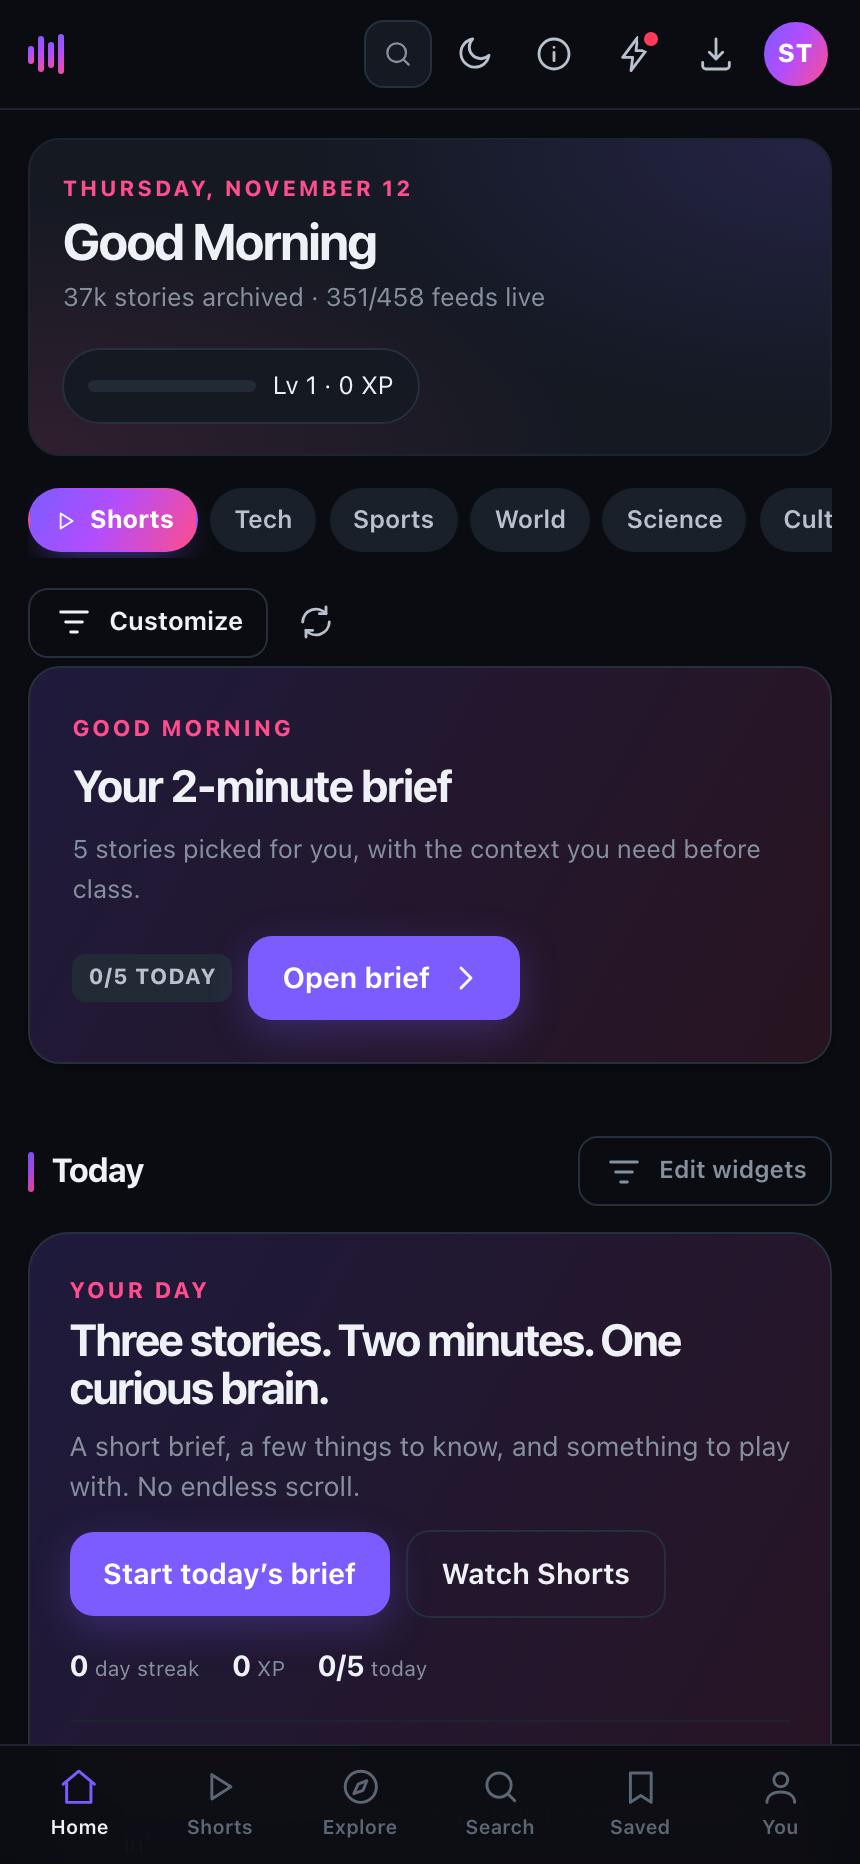
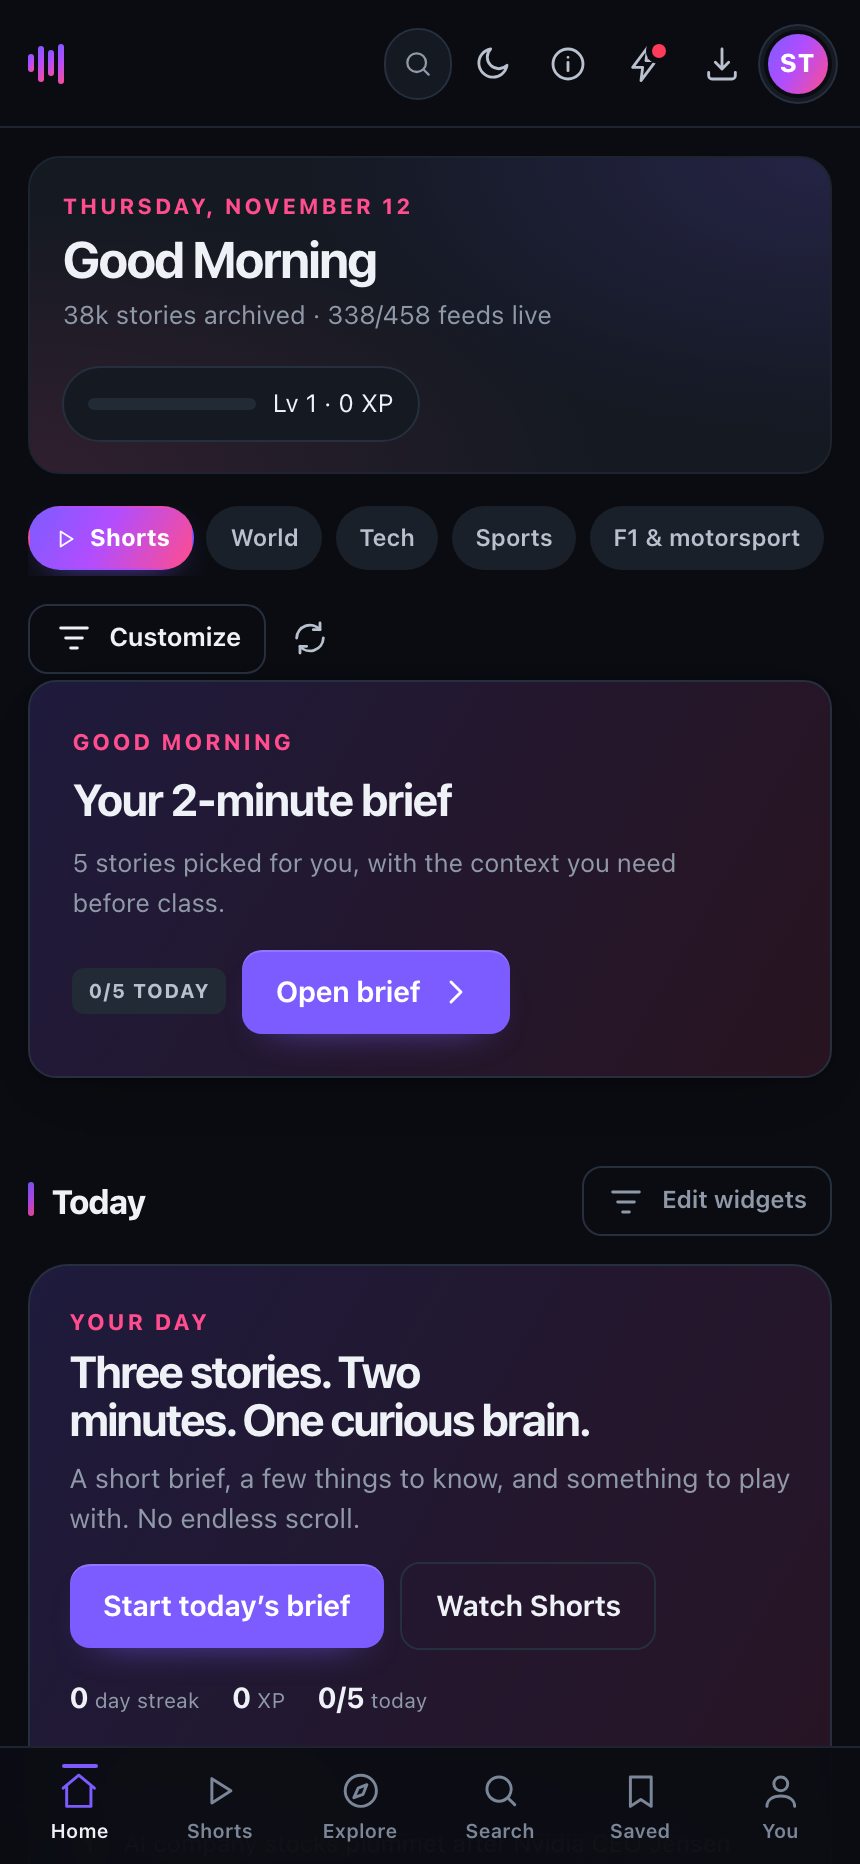
frontend: 30-point professional design pass
- fluid type, spacing, radius, shadow and ring tokens
- refined app bar with scroll elevation and active nav underline
- consistent 36px icon buttons, 34px avatar ring, 36px search
- 40px buttons with focus rings and inset primary highlight
- soft card elevation and hover lift only on interactive cards
- aligned section headers with a precise accent rule
- chip, badge, input, switch and segmented-control consistency
- slower skeleton shimmer, calmer empty states, glass toasts
- blurred modal backdrop, rounded corners and sticky table headers
- article measure, title/desk/prose rhythm and blockquote styling
- article toolbar sits below the app bar; refined gallery/lightbox
- safe-area mobile bottom nav with active indicator
- page-enter transition, app-bar scroll shadow and image fade-in
- custom scrollbars, selection color, focus-visible, reduced motion, print
- new default board (10 of 54 widgets) with one-time migration for old prefs
- refreshed home screenshots; 119 tests + browser harness green

diff --git a/pulse/static/app.css b/pulse/static/app.css
@@ -2534,3 +2534,205 @@ body[data-band="junior"] .reel__content { padding-bottom: 2.8rem; }
   .kids-hero__mascot { display: none; }
   .kids-hero__three { grid-template-columns: 1fr; }
 }
+
+/* =====================================================================
+   PROFESSIONAL POLISH PASS — 30 frontend upgrades
+   ===================================================================== */
+
+/* 1. fluid type scale */
+:root {
+  --fs-2xs: .68rem; --fs-xs: .74rem; --fs-sm: .82rem; --fs-md: .92rem;
+  --fs-lg: 1.05rem; --fs-xl: 1.28rem; --fs-2xl: 1.65rem; --fs-3xl: 2.1rem;
+  --space-1: .25rem; --space-2: .5rem; --space-3: .75rem; --space-4: 1rem;
+  --space-5: 1.5rem; --space-6: 2rem; --space-7: 3rem;
+  --radius-xs: 8px; --radius-sm: 10px; --radius-md: 14px; --radius-lg: 18px; --radius-xl: 24px;
+  --shadow-soft: 0 1px 2px rgba(0,0,0,.18), 0 10px 30px -18px rgba(0,0,0,.45);
+  --shadow-lift: 0 18px 40px -24px rgba(0,0,0,.55);
+  --ring: 0 0 0 3px color-mix(in srgb, var(--accent) 32%, transparent);
+  --header-h: 64px;
+  --faint: #7b8798;
+  --muted: #8f99a8;
+}
+
+/* 2. typography rendering */
+body { -webkit-font-smoothing: antialiased; text-rendering: optimizeLegibility; font-feature-settings: "kern", "liga"; }
+h1, h2, h3, .article__title, .reel__title, .welcome__title { text-wrap: balance; }
+p, .article__dek, .story-card__summary { text-wrap: pretty; }
+
+/* 3. app bar: fixed height, blur, scroll shadow */
+.appbar { height: var(--header-h); transition: box-shadow .2s var(--ease), background .2s var(--ease); }
+.appbar__inner { height: 100%; }
+.appbar.is-scrolled {
+  background: color-mix(in srgb, var(--bg) 92%, transparent);
+  box-shadow: 0 12px 30px -24px rgba(0,0,0,.8);
+}
+
+/* 4. nav: calmer active state with a precise underline */
+.appnav a { height: 36px; border-radius: var(--radius-xs); }
+.appnav a.is-active { background: color-mix(in srgb, var(--accent) 10%, transparent); color: var(--text); }
+.appnav a.is-active::after {
+  content: ''; position: absolute; left: .68rem; right: .68rem; bottom: .18rem;
+  height: 2px; border-radius: 2px; background: var(--accent);
+}
+.appnav a { position: relative; }
+
+/* 5. search field */
+.appbar__search { height: 36px; border-radius: 999px; }
+.appbar__search:focus-visible { box-shadow: var(--ring); }
+
+/* 6. icon buttons and avatar */
+.icon-btn { width: 36px; height: 36px; border-radius: var(--radius-sm); }
+.avatar { width: 34px; height: 34px; box-shadow: 0 0 0 2px var(--surface), 0 0 0 3px var(--line); }
+
+/* 7. buttons: consistent height, focus ring, pressed state */
+.btn { min-height: 40px; border-radius: var(--radius-sm); font-weight: 650; letter-spacing: -.01em; }
+.btn--sm { min-height: 32px; }
+.btn:focus-visible { outline: none; box-shadow: var(--ring); }
+.btn--primary { box-shadow: inset 0 1px 0 rgba(255,255,255,.16), 0 8px 20px -14px var(--accent); }
+.btn[disabled] { opacity: .5; }
+
+/* 8. cards: soft elevation, lift only on interactive cards */
+.card { border-radius: var(--radius-md); box-shadow: var(--shadow-soft); }
+.story-card:hover, .top-card:hover, .mcard:hover, .hcard:hover, .tile:hover, .game:hover {
+  transform: translateY(-2px); box-shadow: var(--shadow-lift); border-color: var(--line);
+}
+.card:focus-within { border-color: var(--accent); box-shadow: var(--ring); }
+
+/* 9. section headers */
+.section-head { margin: 2rem 0 .85rem; align-items: center; }
+.section-head h2 { font-size: var(--fs-lg); font-weight: 750; letter-spacing: -.025em; }
+.section-head h2::before { width: 3px; height: 1.05em; border-radius: 2px; }
+
+/* 10. chips */
+.chip { min-height: 30px; font-size: var(--fs-xs); border-radius: 999px; }
+.chip.is-on {
+  background: color-mix(in srgb, var(--accent) 14%, var(--surface));
+  color: var(--text); border-color: color-mix(in srgb, var(--accent) 40%, var(--line));
+}
+
+/* 11. badges */
+.badge { border-radius: 6px; font-size: .62rem; letter-spacing: .06em; }
+
+/* 12. form controls */
+input[type="text"], input[type="search"], input[type="number"], input[type="email"], input[type="password"], select, textarea {
+  min-height: 42px; border-radius: var(--radius-sm);
+}
+input:focus-visible, select:focus-visible, textarea:focus-visible { outline: none; box-shadow: var(--ring); }
+
+/* 13. switches */
+.switch { width: 46px; height: 28px; }
+.switch::after { width: 22px; height: 22px; }
+.switch.is-on::after { transform: translateX(18px); }
+.switch:focus-visible { outline: none; box-shadow: var(--ring); }
+
+/* 14. segmented control */
+.segmented { border-radius: var(--radius-sm); }
+.segmented button { min-height: 30px; border-radius: 7px; }
+.segmented button.is-on { box-shadow: 0 1px 2px rgba(0,0,0,.18); }
+
+/* 15. skeletons */
+.skeleton { animation-duration: 1.6s; border-radius: var(--radius-sm); }
+
+/* 16. empty states */
+.empty { padding: 3rem 1rem; }
+.empty__mark { width: 44px; height: 3px; }
+.empty h2 { font-size: var(--fs-lg); }
+
+/* 17. toasts */
+.toast {
+  background: color-mix(in srgb, var(--surface-3) 88%, transparent);
+  backdrop-filter: blur(16px); border-radius: var(--radius-sm);
+  box-shadow: var(--shadow-lift); font-size: var(--fs-sm);
+}
+
+/* 18. modals */
+.modal-root { background: rgba(4,6,10,.68); backdrop-filter: blur(10px); }
+.modal { border-radius: var(--radius-xl); box-shadow: var(--shadow-3); }
+.modal__head h2 { font-size: var(--fs-lg); }
+.modal__body { padding: 1.25rem; }
+
+/* 19. tables */
+.stats-table th { position: sticky; top: 0; background: var(--surface); z-index: 1; }
+.stats-table tbody tr:nth-child(even) td { background: color-mix(in srgb, var(--surface-2) 45%, transparent); }
+.stats-table tbody tr:hover td { background: var(--surface-2); }
+
+/* 20. article reading measure and rhythm */
+.article { max-width: 760px; margin: 0 auto; }
+.article__title { letter-spacing: -.045em; line-height: 1.06; }
+.article__dek { font-size: 1.02rem; line-height: 1.6; color: var(--text-2); }
+.prose { font-size: calc(1.08rem * var(--text-scale)); line-height: var(--line-height); }
+.prose p { margin-bottom: 1.25em; }
+.prose h2 { margin-top: 2em; }
+.prose blockquote {
+  border-left: 3px solid var(--accent); padding-left: 1rem; margin: 1.4em 0;
+  color: var(--text-2); font-style: italic;
+}
+
+/* 21. sticky article toolbar sits below the app bar */
+.article__actions { top: var(--header-h); }
+@media (max-width: 760px) { .article__actions { top: 0; } }
+
+/* 22. gallery and lightbox */
+.article__hero { border-radius: var(--radius-lg); }
+.hero-thumbs { border-radius: 0 0 var(--radius-lg) var(--radius-lg); }
+.lightbox img { border-radius: var(--radius-md); }
+
+/* 23. shorts */
+.reel__title { text-wrap: balance; }
+.reel-act svg { width: 22px; height: 22px; padding: .68rem; }
+
+/* 24. mobile bottom nav: safe area, blur, active dot */
+@media (max-width: 760px) {
+  .bottom-nav {
+    background: color-mix(in srgb, var(--bg) 92%, transparent);
+    backdrop-filter: blur(18px); border-top: 1px solid var(--line-soft);
+    padding-bottom: env(safe-area-inset-bottom);
+  }
+  .bottom-nav__item { min-height: 52px; position: relative; }
+  .bottom-nav__item.is-active::before {
+    content: ''; position: absolute; top: 2px; width: 18px; height: 2px;
+    border-radius: 2px; background: var(--accent);
+  }
+  .main { padding-bottom: calc(88px + env(safe-area-inset-bottom)); }
+}
+
+/* 25. page transition */
+.view.page-enter { animation: page-in .28s var(--ease); }
+@keyframes page-in { from { opacity: 0; transform: translateY(6px); } to { opacity: 1; transform: none; } }
+
+/* 26. scrollbars and selection */
+::selection { background: color-mix(in srgb, var(--accent) 35%, transparent); }
+* { scrollbar-width: thin; scrollbar-color: var(--line) transparent; }
+::-webkit-scrollbar { width: 10px; height: 10px; }
+::-webkit-scrollbar-thumb { background: var(--line); border-radius: 999px; border: 3px solid var(--bg); }
+::-webkit-scrollbar-track { background: transparent; }
+
+/* 27. image fade-in */
+.img-loaded { animation: img-in .35s var(--ease); }
+@keyframes img-in { from { opacity: .35; } to { opacity: 1; } }
+
+/* 28. focus visibility */
+:focus-visible { outline: 2px solid var(--accent); outline-offset: 2px; }
+#main:focus, #main:focus-visible { outline: none; }
+
+/* 29. reduced motion */
+@media (prefers-reduced-motion: reduce) {
+  *, *::before, *::after {
+    animation-duration: .01ms !important; animation-iteration-count: 1 !important;
+    transition-duration: .01ms !important; scroll-behavior: auto !important;
+  }
+}
+body.reduce-motion *, body.reduce-motion *::before, body.reduce-motion *::after {
+  animation-duration: .01ms !important; transition-duration: .01ms !important;
+}
+
+/* 30. print */
+@media print {
+  .appbar, .bottom-nav, .article__actions, .reaction-bar, .story-facts, .extras,
+  #quiz-slot, #notes-slot, #coverage-slot, #related-slot, .article__back, #read-progress,
+  .toast-root, .article__foot, .reader-banner { display: none !important; }
+  body { background: #fff !important; color: #111 !important; }
+  .article { max-width: 100%; }
+  .prose { font-size: 11pt; line-height: 1.5; }
+  a { color: #111; text-decoration: none; }
+}

diff --git a/pulse/static/js/app.js b/pulse/static/js/app.js
@@ -268,6 +268,22 @@ function setupImageFallbacks() {
   }, true);
 }
 
+function setupChrome() {
+  const appbar = document.getElementById('appbar');
+  const onScroll = () => appbar?.classList.toggle('is-scrolled', window.scrollY > 8);
+  window.addEventListener('scroll', onScroll, { passive: true });
+  onScroll();
+  const markImages = () => {
+    document.querySelectorAll('img:not(.img-loaded)').forEach((img) => {
+      if (img.complete && img.naturalWidth) img.classList.add('img-loaded');
+      else img.addEventListener('load', () => img.classList.add('img-loaded'), { once: true });
+    });
+  };
+  markImages();
+  const view = document.getElementById('view');
+  if (view) new MutationObserver(markImages).observe(view, { childList: true, subtree: true });
+}
+
 function setupInstall() {
   const button = document.getElementById('install-btn');
   let promptEvent = null;
@@ -363,6 +379,7 @@ async function boot() {
   setupImageFallbacks();
   setupInstall();
   bindShell();
+  setupChrome();
   registerRoutes();
 
   const bootEl = document.getElementById('boot');

diff --git a/pulse/static/js/daily.js b/pulse/static/js/daily.js
@@ -47,10 +47,19 @@ const DEFAULTS_BY_BAND = {
   senior: ['challenge', 'top3', 'longread', 'most', 'quiz', 'numbers', 'tip', 'streak', 'fact', 'detective'],
 };
 
+const OLD_DEFAULT_WIDGETS = ['challenge', 'word', 'poll', 'quiz', 'top3', 'photo', 'journal', 'streak'];
+
 function widgetOrder() {
   const saved = Array.isArray(prefs().widgets) ? prefs().widgets : [];
   const valid = saved.filter((id) => WIDGETS.some((widget) => widget.id === id));
-  if (valid.length) return valid;
+  if (valid.length) {
+    if (!prefs().widgets_v2 && valid.join('|') === OLD_DEFAULT_WIDGETS.join('|')) {
+      savePrefs({ widgets: DEFAULT_WIDGETS, widgets_v2: true }).catch(() => {});
+      return [...DEFAULT_WIDGETS];
+    }
+    if (!prefs().widgets_v2) savePrefs({ widgets_v2: true }).catch(() => {});
+    return valid;
+  }
   const band = ageBand(state.profile?.survey?.age || 13);
   return DEFAULTS_BY_BAND[band.id] || DEFAULT_WIDGETS;
 }

diff --git a/pulse/static/js/router.js b/pulse/static/js/router.js
@@ -66,6 +66,9 @@ export async function render(url = window.location.pathname + window.location.se
     console.error('route failed', path, err);
     errorState(view, err?.message || 'This page failed to load.', () => render(url));
   }
+  view.classList.remove('page-enter');
+  void view.offsetWidth;
+  view.classList.add('page-enter');
   const main = document.getElementById('main');
   if (main && !restoreScroll) main.focus({ preventScroll: true });
 }

diff --git a/pulse/profiles.py b/pulse/profiles.py
@@ -52,7 +52,8 @@ DEFAULT_PREFS: dict = {
     "haptics": True,
     "confetti": True,
     "show_why": True,
-    "widgets": ["challenge", "word", "poll", "quiz", "top3", "photo", "journal", "streak"],
+    "widgets": ["challenge", "joke", "fact", "quiz", "poll", "photo", "streak", "math", "animal", "storystarter"],
+    "widgets_v2": False,
     "sections_v3": False,
 }
 
@@ -264,7 +265,7 @@ def sanitise_prefs(prefs: dict) -> dict:
         clean["noise_volume"] = max(0, min(1, float(prefs.get("noise_volume", clean.get("noise_volume", .35)))))
     except (TypeError, ValueError):
         clean["noise_volume"] = .35
-    for key in ("compact_cards", "autoplay_shorts", "shorts_sound", "haptics", "confetti", "show_why", "line_spacing", "sections_v2", "sections_v3"):
+    for key in ("compact_cards", "autoplay_shorts", "shorts_sound", "haptics", "confetti", "show_why", "line_spacing", "sections_v2", "sections_v3", "widgets_v2"):
         if key in prefs and not isinstance(prefs[key], dict):
             clean[key] = prefs[key]
     for key in ("text_size", "daily_goal"):
